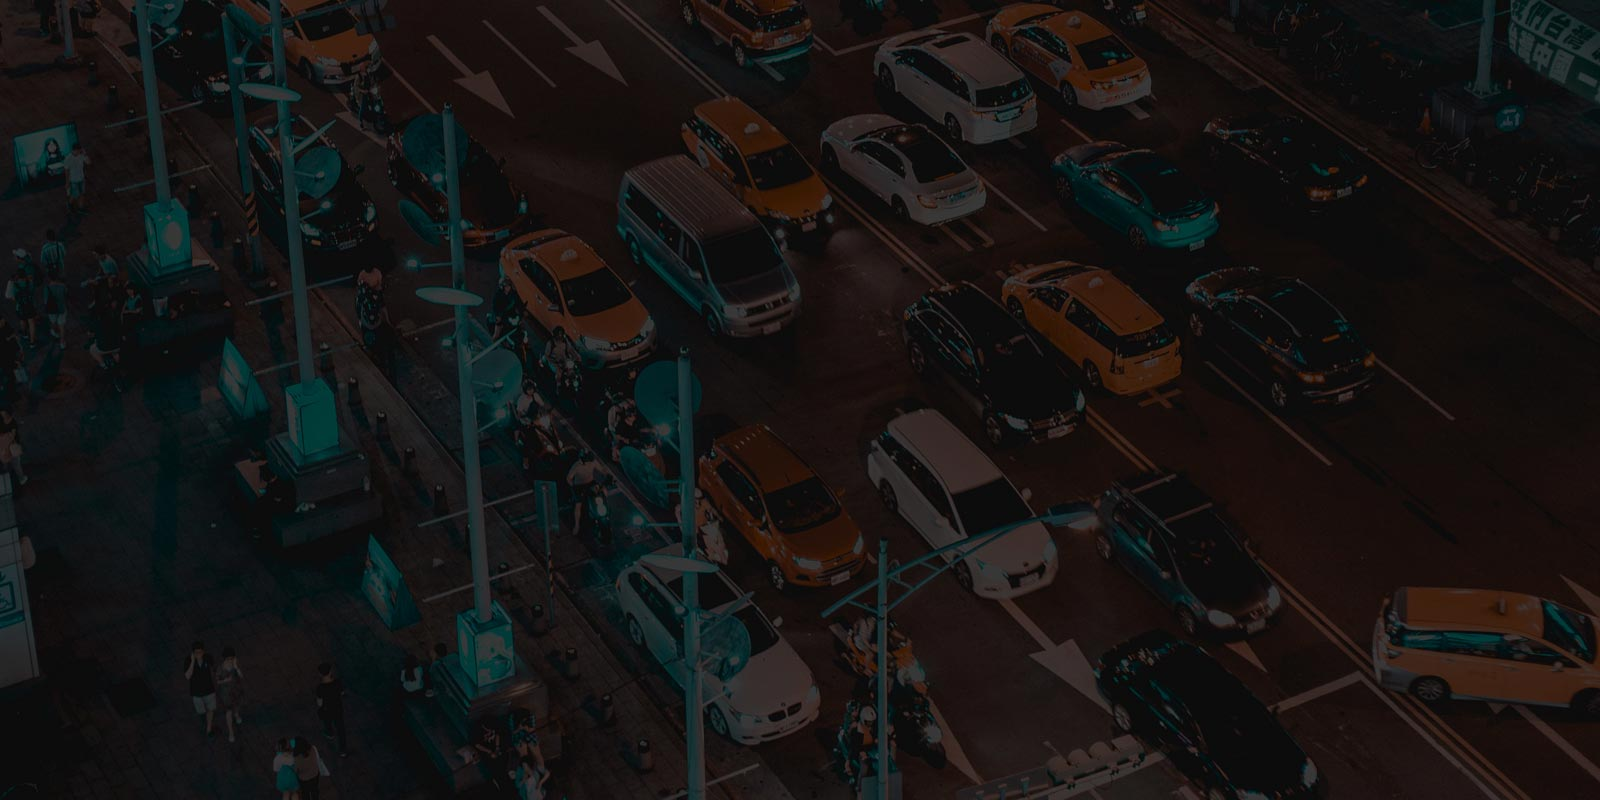
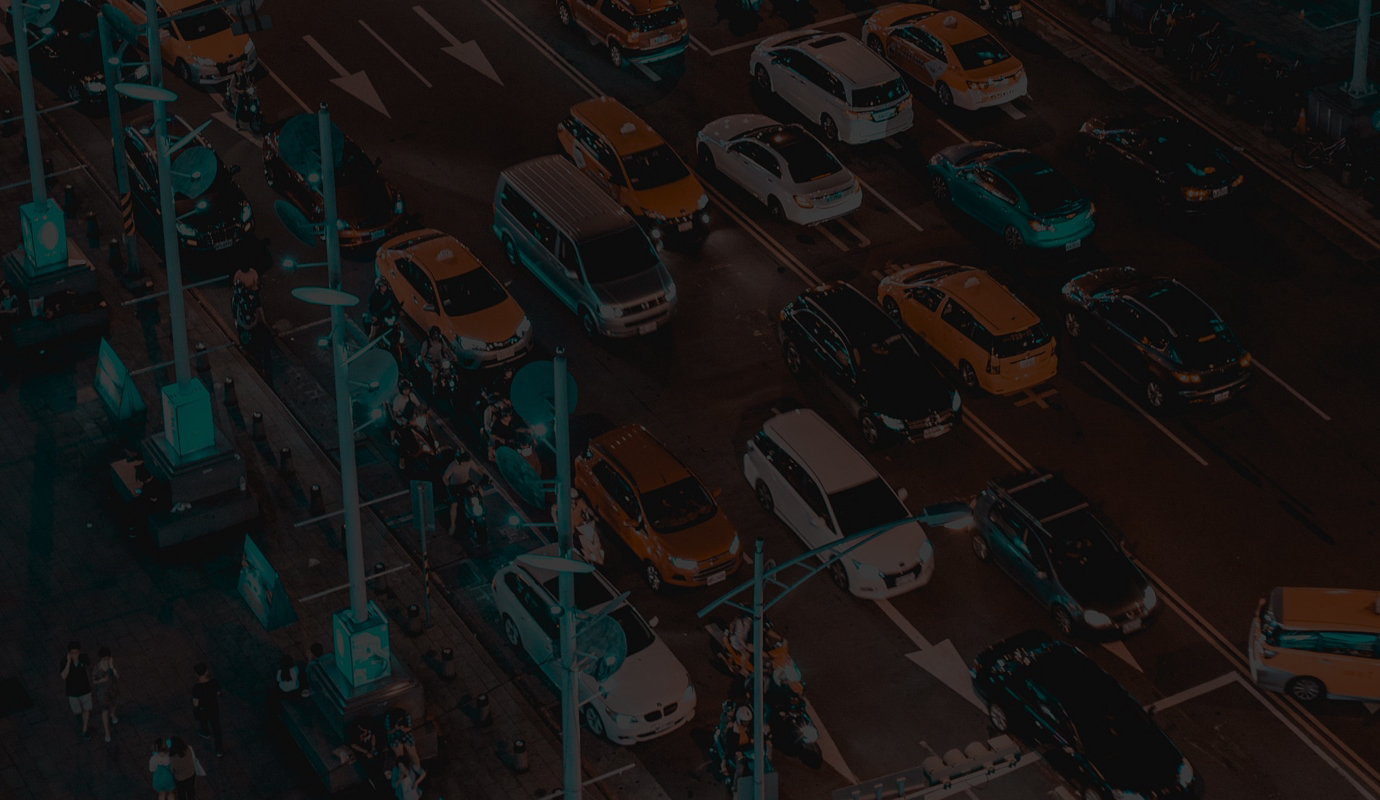
added deployment and README.md

diff --git a/src/main/resources/templates/index.html b/src/main/resources/templates/index.html
@@ -54,18 +54,6 @@
 			<div class="rslides_container">
 				<ul class="rslides" id="slider1">
 					<li>
-						<div class="banner-img">
-							<div class="bs-slider-overlay">
-								<div class="banner-info text-center">
-									<span class="fas fa-taxi"></span>
-									<h1>24/7 Taxi Service </h1>
-									<h2 class="mb-5"><i class="fas fa-phone"></i> (236) 123 1234</h2>
-									<a th:href="@{/booking}">Book Now </a>
-								</div>
-							</div>
-						</div>
-					</li>
-					<li>
 						<div class="banner-img one">
 							<div class="bs-slider-overlay">
 								<div class="banner-info text-center">

diff --git a/src/main/resources/static/assets/css/style.css b/src/main/resources/static/assets/css/style.css
@@ -587,15 +587,15 @@ label{
 }
 
 .banner-img.one {
-	background: url(../images/banner2.jpg) no-repeat 0px 0px;
+	background: url(../images/banner2.jpg) no-repeat center 0px;
 }
 
 .banner-img.two {
-	background: url(../images/banner5.jpg) no-repeat 0px 0px;
+	background: url(../images/banner4.jpg) no-repeat center 0px;
 }
 
 .banner-img.three {
-	background: url(../images/banner3.jpg) no-repeat 0px 0px;
+	background: url(../images/banner3.jpg) no-repeat center 0px;
 }
 
 .banner-info {

diff --git a/README.md b/README.md
@@ -1,0 +1,17 @@
+## Deployment  
+
+URL: http://luciuswong.com/  
+
+Image preview:  
+
+![taxicab_snapshot_20230120.png](/taxicab_snapshot_20230120.png)  
+
+Profile  
+
+![taxicab_snapshot_profile.png](/taxicab_snapshot_profile.png)  
+
+Admin pages  
+
+![taxicab_snapshot_admin_contact.png](/taxicab_snapshot_admin_contact.png)  
+
+![taxicab_snapshot_admin_booking.png](/taxicab_snapshot_admin_booking.png)  
